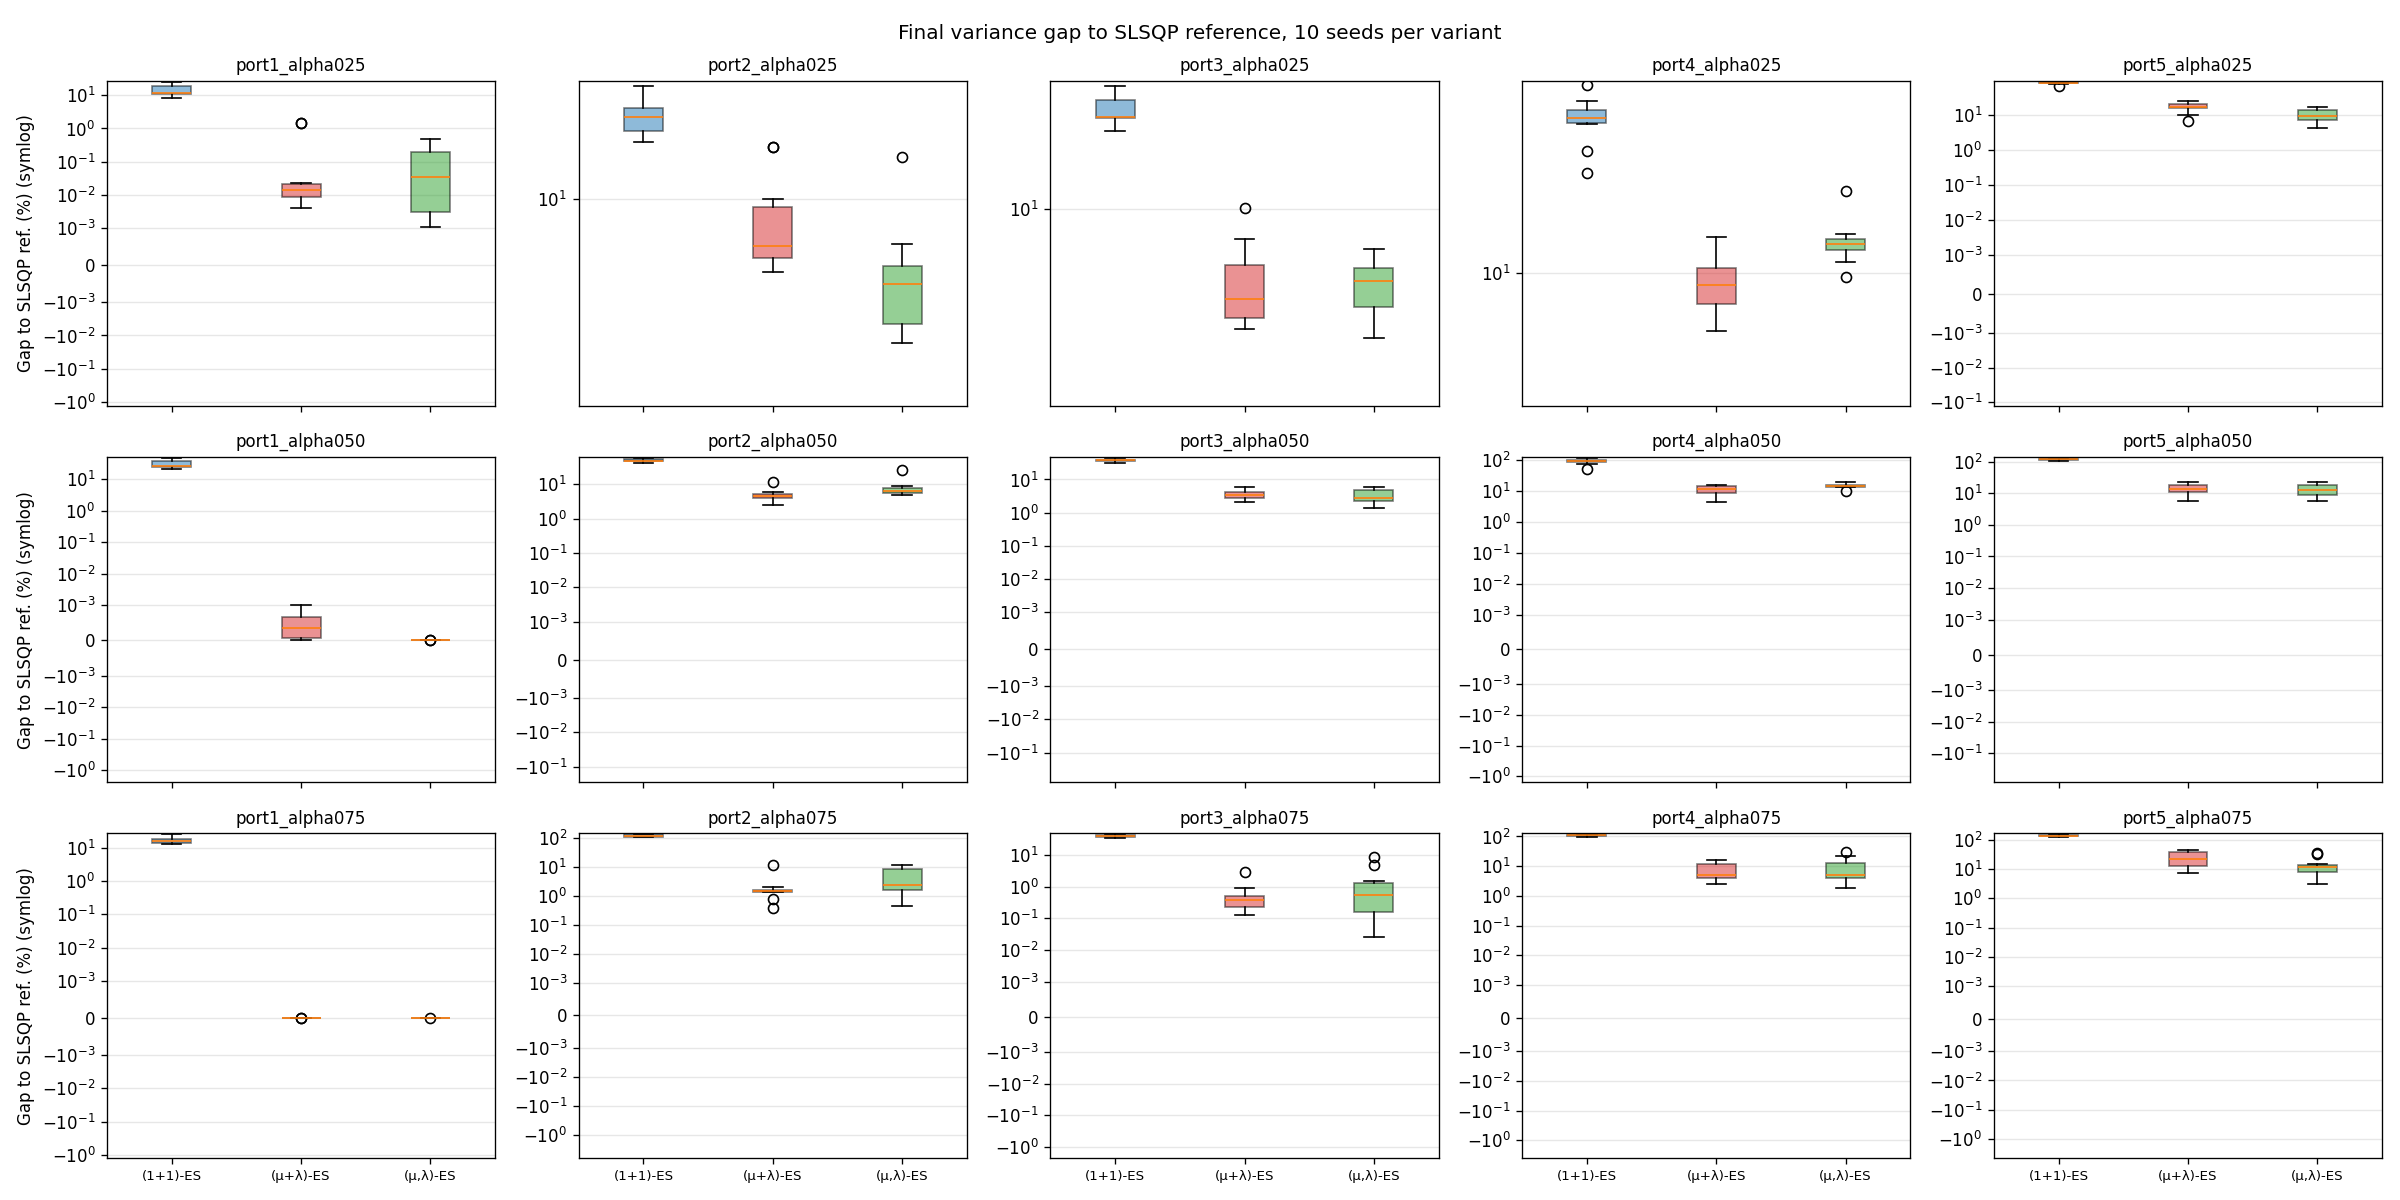
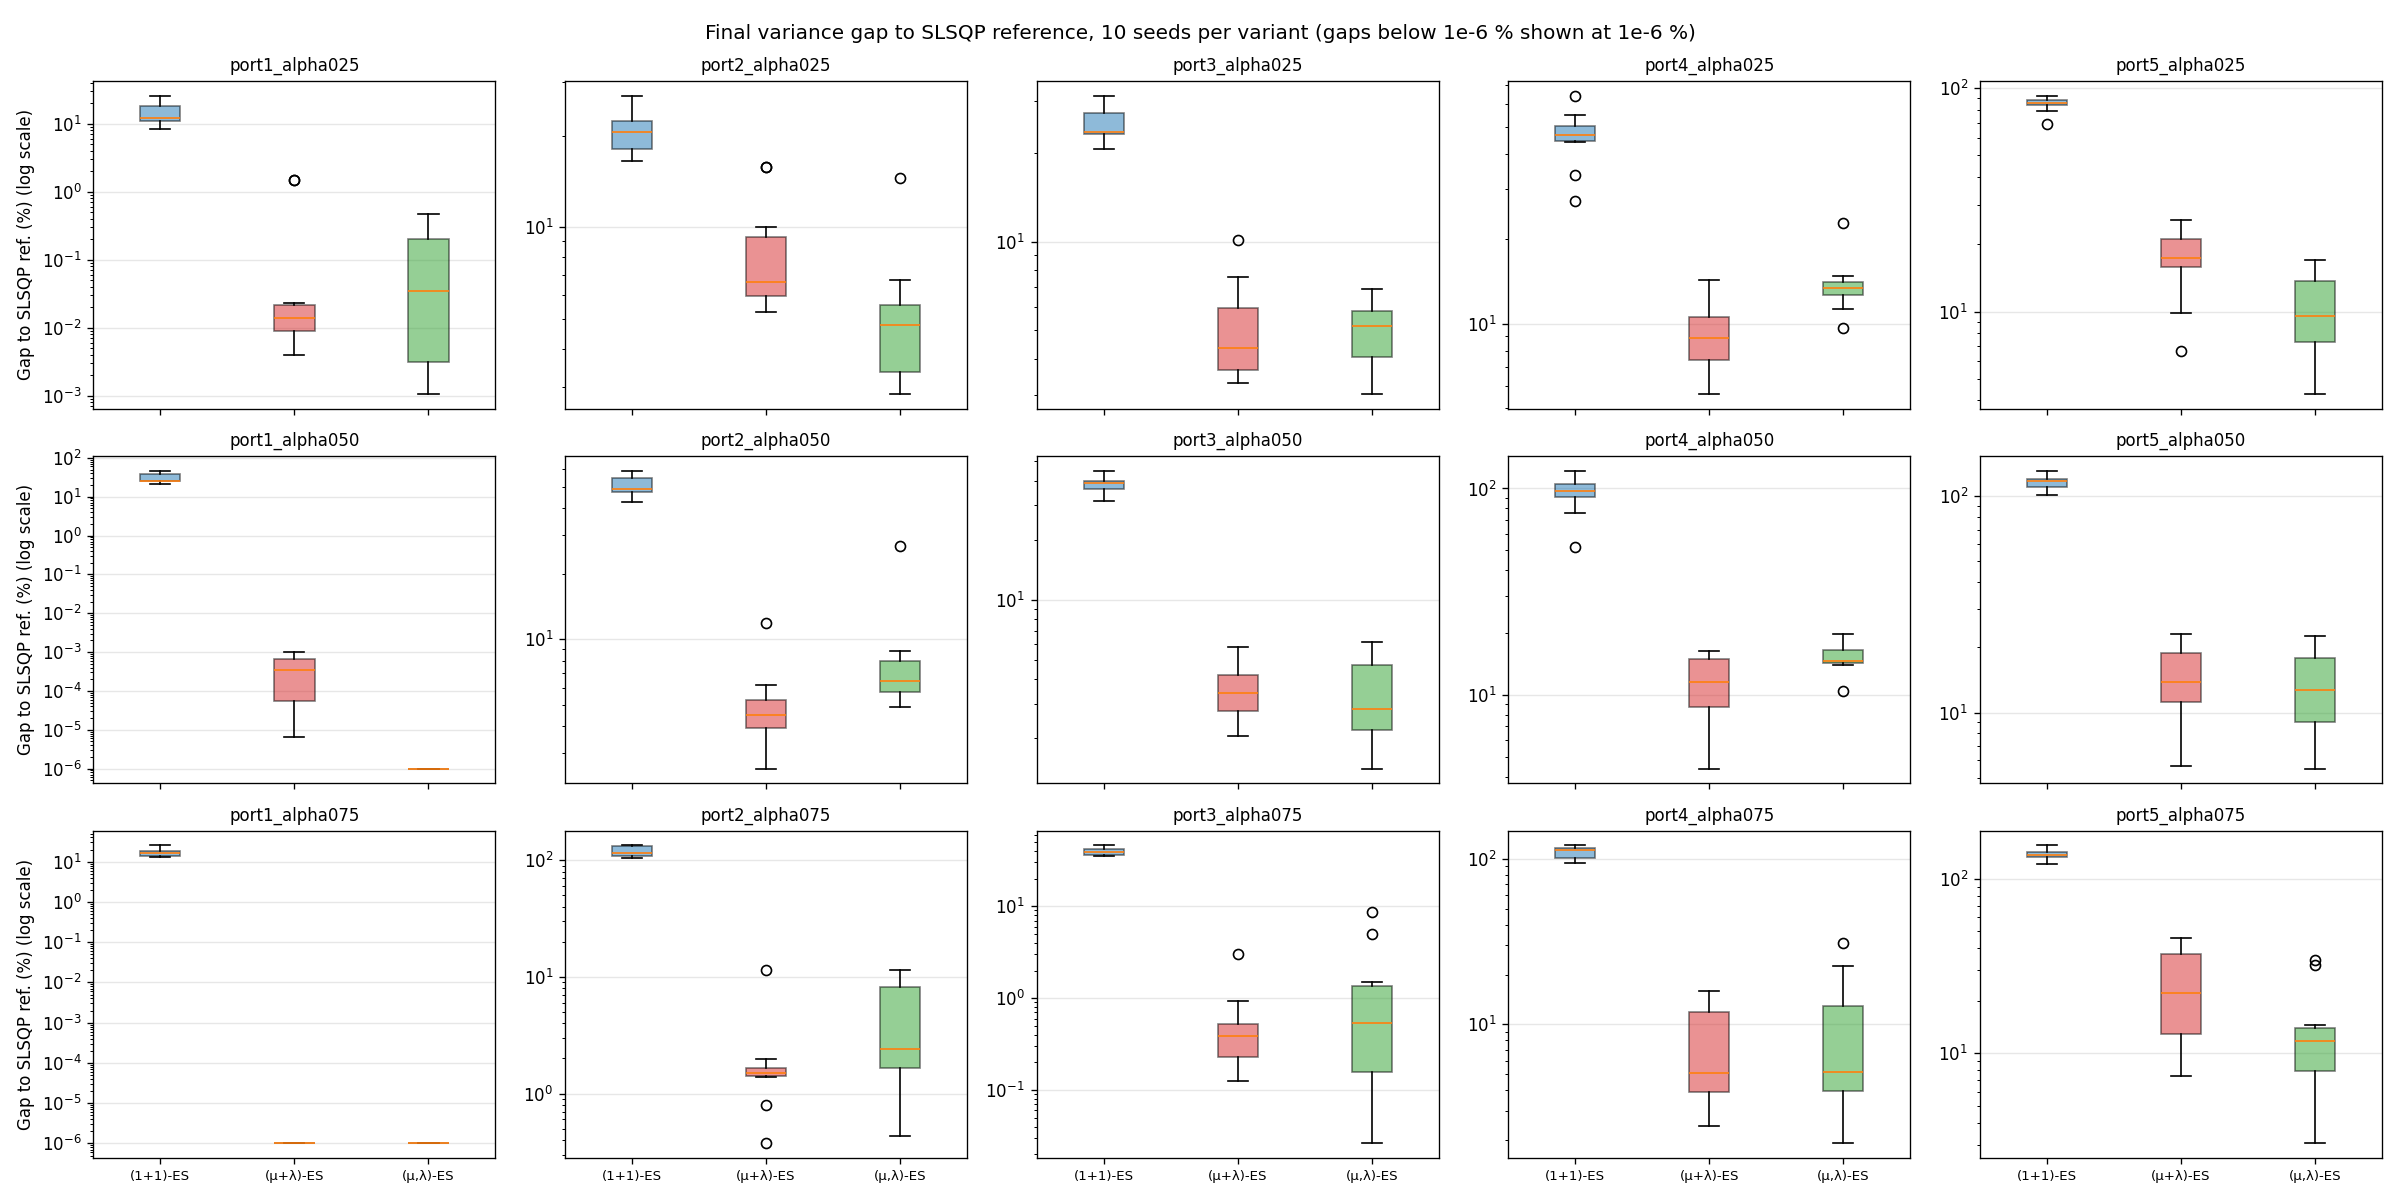
results update problem 2

diff --git a/problem2_es/experiments/make_plots.py b/problem2_es/experiments/make_plots.py
@@ -102,17 +102,19 @@ def main():
             rows = list(csv.DictReader(f))
         fig, axes = plt.subplots(3, 5, figsize=(20, 10), sharex=True)
         for ax, c in zip(axes.T.ravel(), all_cases()):
-            data = [[100 * (float(r["best_variance"]) - ref[c]) / ref[c]
+            # gaps <= 1e-6 % (ES equals the reference to ~8 digits) are floored for the log axis
+            data = [[max(100 * (float(r["best_variance"]) - ref[c]) / ref[c], 1e-6)
                      for r in rows if r["case"] == c and r["variant"] == v] for v in VARIANTS]
             bp = ax.boxplot(data, patch_artist=True)
             for patch, v in zip(bp["boxes"], VARIANTS):
                 patch.set_facecolor(COLORS[v]); patch.set_alpha(0.5)
             ax.set_xticks([1, 2, 3], [LABELS[v] for v in VARIANTS], fontsize=8)
-            ax.set_yscale("symlog", linthresh=1e-3)
+            ax.set_yscale("log")
             ax.set_title(c, fontsize=10); ax.grid(True, axis="y", alpha=0.3)
         for ax in axes[:, 0]:
-            ax.set_ylabel("Gap to SLSQP ref. (%) (symlog)")
-        fig.suptitle("Final variance gap to SLSQP reference, 10 seeds per variant")
+            ax.set_ylabel("Gap to SLSQP ref. (%) (log scale)")
+        fig.suptitle("Final variance gap to SLSQP reference, 10 seeds per variant "
+                     "(gaps below 1e-6 % shown at 1e-6 %)")
         fig.tight_layout(); fig.savefig(FIG / "gap_boxplots.png", dpi=120); plt.close(fig)
     print("figures written to", FIG)
 

diff --git a/problem2_es/src/budget.py b/problem2_es/src/budget.py
@@ -1,4 +1,3 @@
-# AI-assisted: Claude Code, Evaluator scaffold, reviewed by <member>
 """Evaluation budget shared by every algorithm in this problem.
 
 Every objective call goes through Evaluator, so initial population, recruits,
